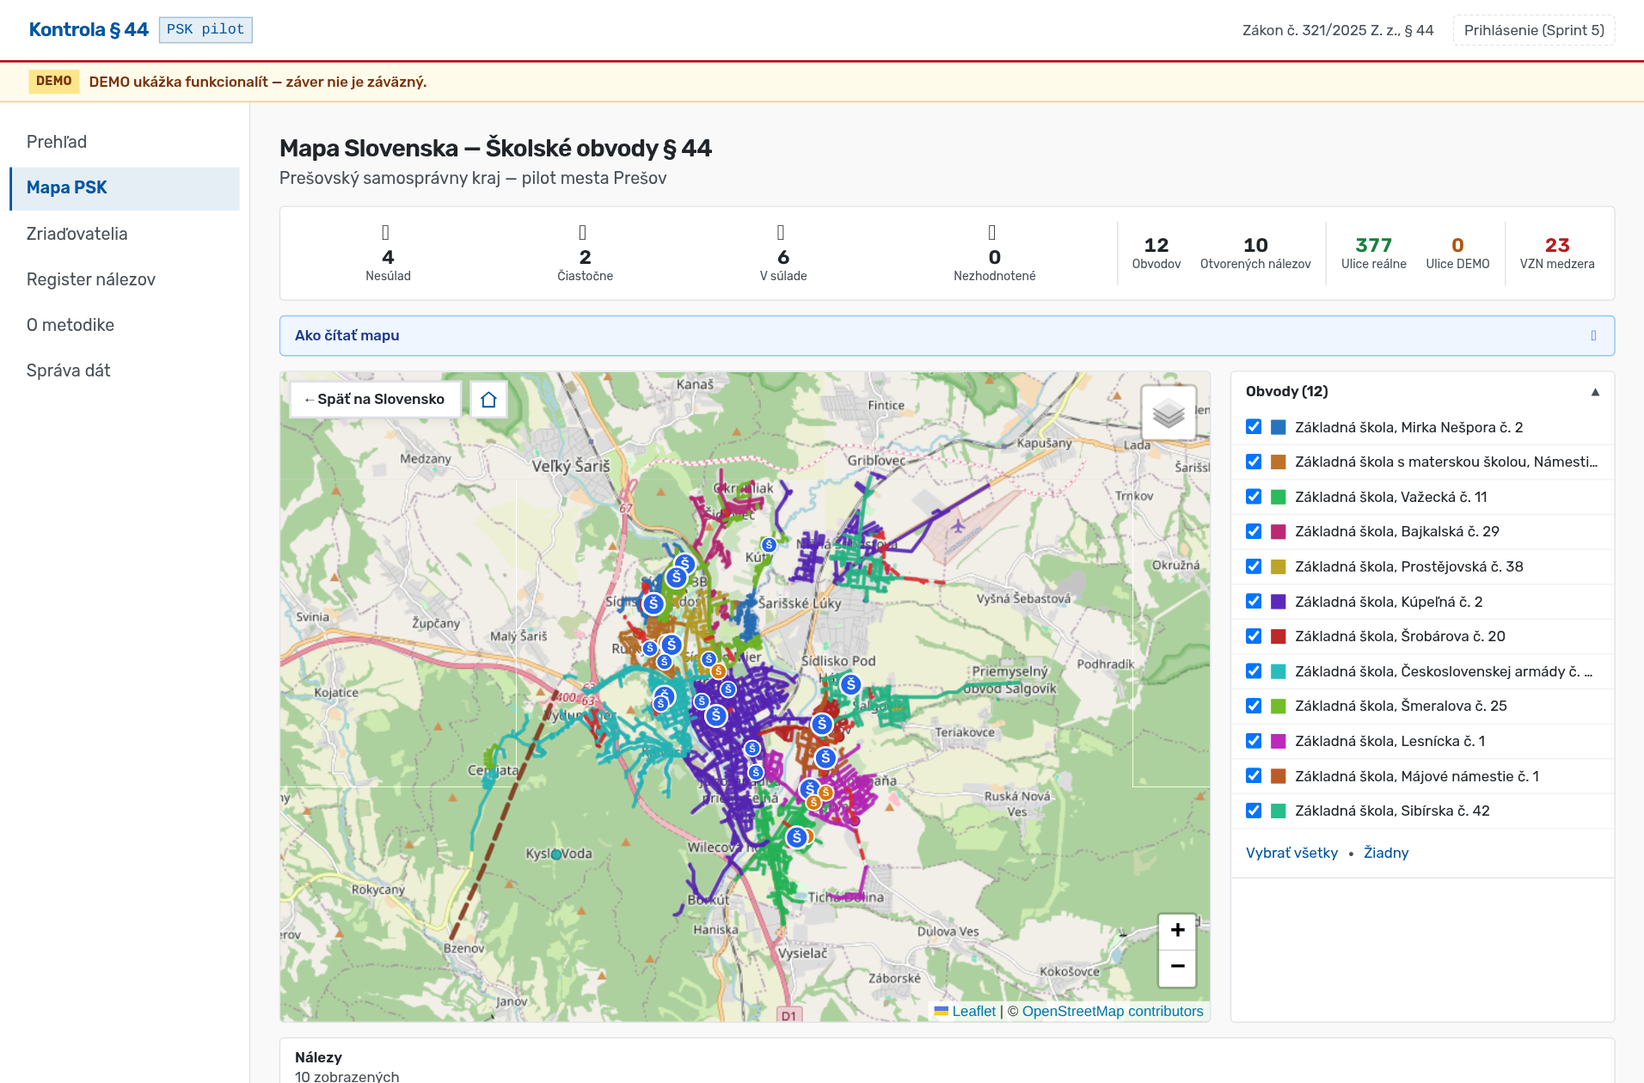
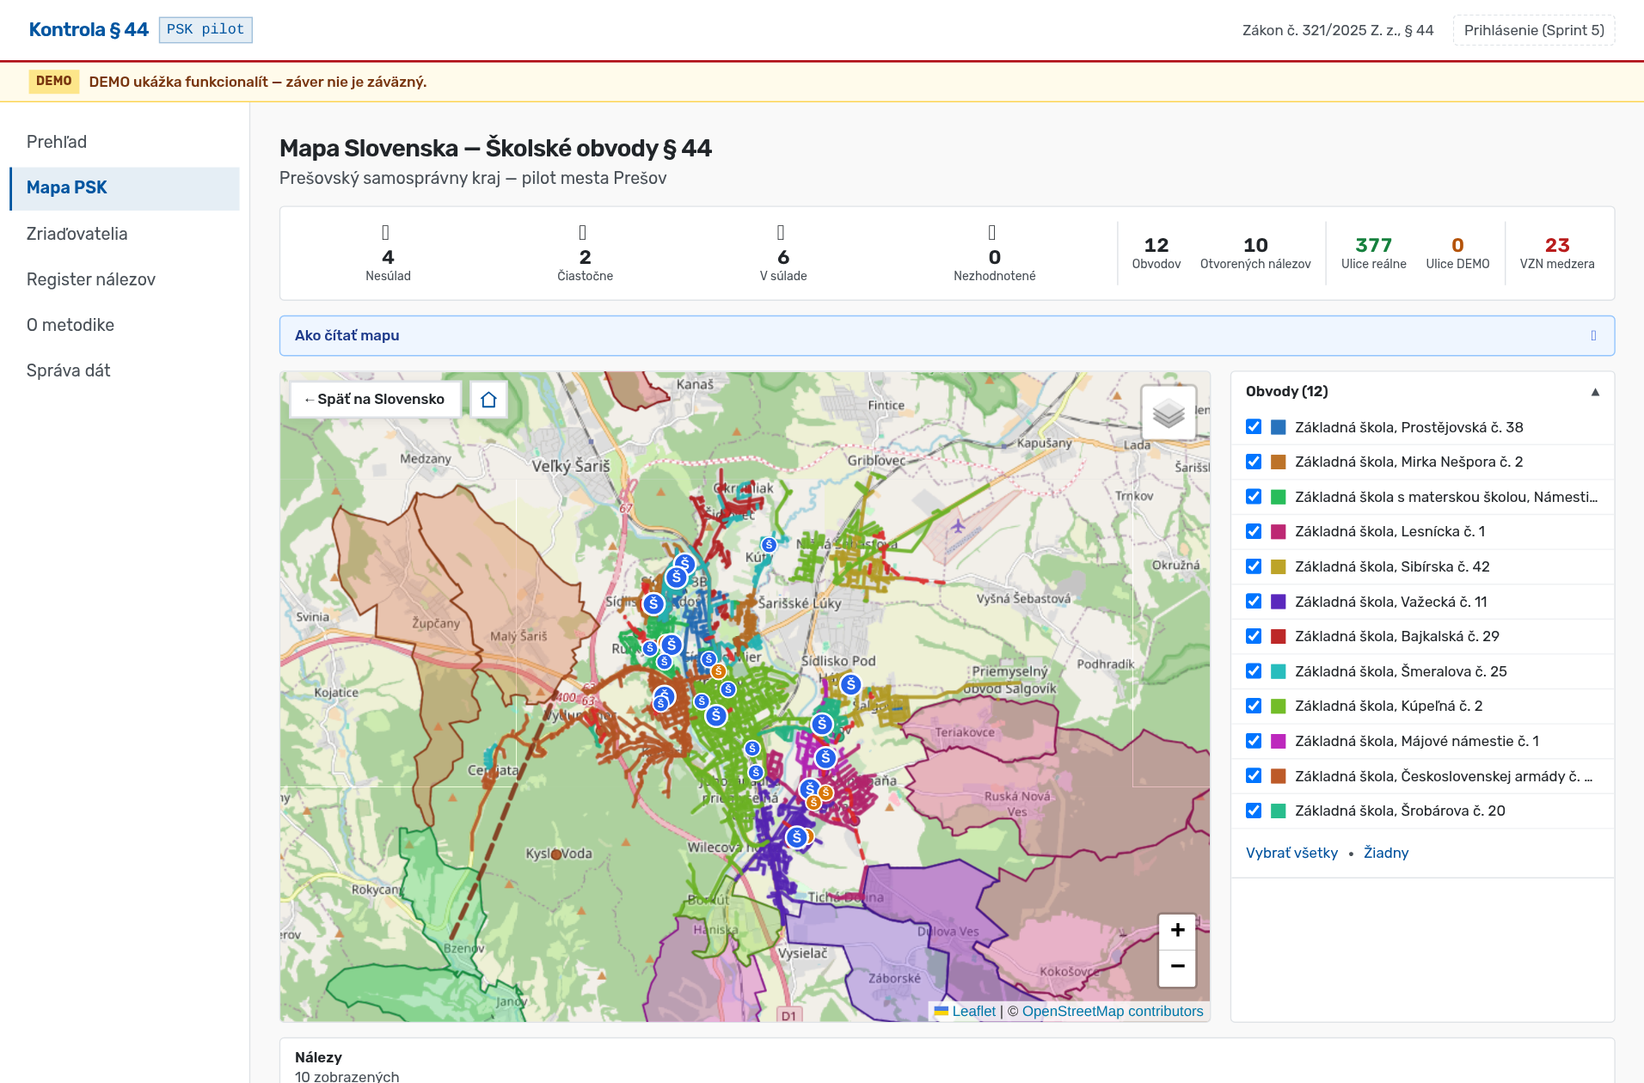
feat(map): Mapa obcí spoločného obvodu ako oblasti (VLA-21) (#6)
* feat(vzn-parser): carry grade range per shared municipality (VLA-21)

- _parse_shared_municipalities() now returns (names, grades) instead of
  just names; grades maps municipality name -> its VZN-stated grade range
  (e.g. "5. – 9. ročníka"). Reuses the existing paren-aware splitter
  (_split_respecting_parens) instead of duplicating parsing logic, since a
  municipality's grade paren can itself contain a nested street sub-list
  ("(žiaci 1. – 9. ročníka; ulica: Hlavná, ...)").
- SchoolDistrict gains shared_municipality_grades: dict[str, str].
- run_sprint1.py::load_districts() now writes shared_municipality_grades
  into districts.metadata (JSONB) alongside the existing
  shared_municipalities key — same live write path confirmed in the
  investigation log, no new column/table needed.
- Verified live against real VZN text: grade is NOT uniform per district
  (4 of 10 districts with shared municipalities mix "1.–9." and "5.–9."
  ranges across their own municipalities), so grade must be attached
  per-municipality, not at district level.
- Side effect: the new parser also drops a pre-existing trailing-period
  artifact on each list's last municipality name (e.g. "Uzovce ." ->
  "Uzovce") as a natural consequence of the paren-aware split; downstream
  code (scripts/compute_longest_routes.py::_clean_municipality_name)
  already defensively strips this, so re-ingestion is non-breaking either
  way.

Verified standalone (python3 -c against load_and_parse_vzn()) before
[…]

Changed region(s): [[0.1851, 0.4333, 0.7406, 0.9595], [0.864, 0.3714, 0.9566, 0.7738], [0.3703, 0.3405, 0.4012, 0.4024]]

diff --git a/components/region-map.client.tsx b/components/region-map.client.tsx
@@ -2,7 +2,7 @@
 
 import 'leaflet/dist/leaflet.css'
 import { useEffect, useRef, useState } from 'react'
-import type { DistrictMapFeature, SoSchoolMarker, SoMrkOverlay, SoMrkLocality, SoPskMunicipality, SoHousePoint, SoHouseDot, SoDistrictStreetLine, SoFindingsPanelItem, SoStreetCoverageGap, SoBarrier, SoDistrictLongestRoute } from '@/lib/supabase/types'
+import type { DistrictMapFeature, SoSchoolMarker, SoMrkOverlay, SoMrkLocality, SoPskMunicipality, SoHousePoint, SoHouseDot, SoDistrictStreetLine, SoFindingsPanelItem, SoStreetCoverageGap, SoBarrier, SoDistrictLongestRoute, SoSharedMunicipalityArea } from '@/lib/supabase/types'
 import { PSK_CENTER, PSK_DEFAULT_ZOOM, SK_CENTER, SK_DEFAULT_ZOOM, PSK_KRAJ_NAMES, getDistrictHue } from '@/lib/config/region'
 import { buildDistrictSchoolPopup, buildDistrictSummaryPopup, buildNonVznSchoolPopup, escapeHtml, type DistrictPopupSummary } from '@/lib/compliance/school-popup'
 import {
@@ -48,6 +48,10 @@ interface RegionMapClientProps {
   // VLA-17: 5 longest real walking routes per district (comparison/overview
   // only — no threshold, never feeds the § 44 semaphore).
   longestRoutes?: SoDistrictLongestRoute[]
+  // VLA-21: shared-municipality catchment areas (VZN grades 5-9, or for
+  // some municipalities all of 1-9, pooled into a district's catchment).
+  // Descriptive/geographic only — never feeds the § 44 semaphore.
+  sharedMunicipalityAreas?: SoSharedMunicipalityArea[]
   // Engine findings (§ 44 demo scenarios included) — drives the per-district
   // evidence legend shown on selection. Never used to derive colour/severity
   // client-side; severity/text come straight from the engine output row.
@@ -61,7 +65,7 @@ function isPskKraj(name: string): boolean {
   return PSK_KRAJ_NAMES.some((n) => lower.includes(n.toLowerCase()))
 }
 
-export function RegionMapClient({ features, schools, mrkLocalities = [], municipalities = [], streetLines = [], housePoints = [], coverageGaps = [], barriers = [], longestRoutes = [], findings = [], districtSummaries = {}, initialMode = 'sk' }: RegionMapClientProps) {
+export function RegionMapClient({ features, schools, mrkLocalities = [], municipalities = [], streetLines = [], housePoints = [], coverageGaps = [], barriers = [], longestRoutes = [], sharedMunicipalityAreas = [], findings = [], districtSummaries = {}, initialMode = 'sk' }: RegionMapClientProps) {
   const containerRef = useRef<HTMLDivElement>(null)
   // eslint-disable-next-line @typescript-eslint/no-explicit-any
   const mapRef = useRef<any>(null)
@@ -144,6 +148,12 @@ export function RegionMapClient({ features, schools, mrkLocalities = [], municip
       // summary popup) rather than the MRK hatch underneath it.
       const mrkPane = map.createPane('mrk')
       mrkPane.style.zIndex = '440'
+      // VLA-21: shared-municipality areas sit above MRK but below the
+      // district street lines/schools, so a district street tap always
+      // wins over the (geographically separate, neighbouring-municipality)
+      // catchment fill underneath it.
+      const sharedMuniPane = map.createPane('sharedMunicipalities')
+      sharedMuniPane.style.zIndex = '445'
       const districtPane = map.createPane('districts')
       districtPane.style.zIndex = '450'
       const overlapsPane = map.createPane('overlaps')
@@ -997,6 +1007,64 @@ export function RegionMapClient({ features, schools, mrkLocalities = [], municip
           })
           containerRef.current?.setAttribute('data-longest-routes', String(longestRoutes.length))
 
+          // (D5) VLA-21 — shared-municipality catchment areas (VZN grades
+          // 5-9, or for some municipalities all of 1-9, pooled into a
+          // district's catchment beyond its seat municipality, e.g. ZŠ
+          // Bajkalská + Gregorovce/Hubošovce/Uzovce). Rendered as the real
+          // municipality polygon (PSK WFS), filled in the OWNING district's
+          // colour so it visually reads as "part of this district's
+          // catchment" — same hue as that district's streets, drawn as a
+          // genuinely separate layer/source (own pane), NOT baked into the
+          // district street layer, since a municipality boundary and a
+          // district street catchment are administratively different
+          // objects. Descriptive/geographic only — never feeds the § 44
+          // semaphore. grade_range comes straight from the VZN-parsed data
+          // (districts.metadata->'shared_municipality_grades'), never
+          // invented client-side; a NULL is shown as "neuvedené", never
+          // silently omitted.
+          const sharedMuniGroup = L.featureGroup()
+          sharedMunicipalityAreas.forEach((area) => {
+            if (!area.geom_geojson) return
+            const distIdx = districtIndexMap.get(area.district_id) ?? 0
+            const hue = getDistrictHue(distIdx)
+            const fillColor = `hsl(${hue}, 65%, 55%)`
+            const strokeColor = `hsl(${hue}, 70%, 32%)`
+            // DB-sourced labels go through Leaflet's innerHTML-based popup/
+            // tooltip rendering — escape them (same XSS precedent as the
+            // longest-routes popup, PR #4 review).
+            const districtName = escapeHtml(area.district_name)
+            const muniName = escapeHtml(area.municipality_name)
+            const gradeEscaped = area.grade_range ? escapeHtml(area.grade_range) : null
+            const gradeHtml = gradeEscaped
+              ? `<p style="margin:4px 0">Ročníky: <strong>${gradeEscaped}</strong></p>`
+              : `<p style="margin:4px 0;color:#6b7280">Ročníky: neuvedené vo VZN</p>`
+            const popupHtml =
+              `<div style="font-size:12px;line-height:1.45;max-width:260px">` +
+              `<strong>${muniName}</strong><br/>` +
+              `<span style="display:inline-block;margin:3px 0;border-radius:4px;padding:1px 6px;font-size:10px;font-weight:700;background:#eff6ff;color:#1d4ed8;border:1px solid #bfdbfe">Spoločný školský obvod</span>` +
+              `<p style="margin:4px 0">Škola: <strong>${districtName}</strong></p>` +
+              gradeHtml +
+              `</div>`
+            const layer = L.geoJSON(area.geom_geojson as unknown as GeoJSON.GeoJsonObject, {
+              style: {
+                color: strokeColor,
+                weight: 1.5,
+                fillColor,
+                fillOpacity: 0.35,
+                className: 'so-shared-municipality-area',
+              },
+              // eslint-disable-next-line @typescript-eslint/no-explicit-any
+              pane: 'sharedMunicipalities' as any,
+            })
+            layer.bindTooltip(
+              `${muniName} — ${districtName}${gradeEscaped ? ` (${gradeEscaped})` : ''}`,
+              { sticky: true }
+            )
+            layer.bindPopup(popupHtml, { maxWidth: 280, autoPan: true, autoPanPadding: [20, 20] })
+            layer.addTo(sharedMuniGroup)
+          })
+          containerRef.current?.setAttribute('data-shared-municipality-areas', String(sharedMunicipalityAreas.length))
+
           // (E) Layer control. Default ON: street networks + school pins +
           // coverage gaps (holes must always be explained). Every analytical
           // overlay (MRK, address dots) stays OFF by default.
@@ -1019,6 +1087,9 @@ export function RegionMapClient({ features, schools, mrkLocalities = [], municip
           if (longestRoutes.length > 0) {
             overlays[`5 najdlhších trás (${longestRoutes.length}, Google Maps)`] = longestRoutesGroup
           }
+          if (sharedMunicipalityAreas.length > 0) {
+            overlays[`Obce spoločného obvodu (${sharedMunicipalityAreas.length})`] = sharedMuniGroup
+          }
           // eslint-disable-next-line @typescript-eslint/no-explicit-any
           const layersControl = L.control.layers(undefined, overlays as any, {
             collapsed: layerControlCollapsed(),
@@ -1036,6 +1107,7 @@ export function RegionMapClient({ features, schools, mrkLocalities = [], municip
           schoolsGroup.addTo(map)
           coverageGapsGroup.addTo(map)
           barriersGroup.addTo(map)
+          sharedMuniGroup.addTo(map)
 
           const fitToDistricts = () => {
             try {
@@ -1060,15 +1132,17 @@ export function RegionMapClient({ features, schools, mrkLocalities = [], municip
             if (!map.hasLayer(schoolsGroup)) schoolsGroup.addTo(map)
             if (!map.hasLayer(coverageGapsGroup)) coverageGapsGroup.addTo(map)
             if (!map.hasLayer(barriersGroup)) barriersGroup.addTo(map)
+            if (!map.hasLayer(sharedMuniGroup)) sharedMuniGroup.addTo(map)
             fitToDistricts()
           }
 
-          layersRef.current.psk = [districtsGroup, schoolsGroup, coverageGapsGroup, mrkGroup, housePointsGroup, barriersGroup, longestRoutesGroup]
+          layersRef.current.psk = [districtsGroup, schoolsGroup, coverageGapsGroup, mrkGroup, housePointsGroup, barriersGroup, longestRoutesGroup, sharedMuniGroup]
         } else {
-          const [districtsGroup, schoolsGroup, coverageGapsGroup, , , barriersGroup] = layersRef.current.psk
+          const [districtsGroup, schoolsGroup, coverageGapsGroup, , , barriersGroup, , sharedMuniGroup] = layersRef.current.psk
           districtsGroup.addTo(map)
           schoolsGroup.addTo(map)
           if (coverageGapsGroup) coverageGapsGroup.addTo(map)
+          if (sharedMuniGroup) sharedMuniGroup.addTo(map)
           if (barriersGroup) barriersGroup.addTo(map)
           if (features.length > 0) {
             try {

diff --git a/app/map/page.tsx b/app/map/page.tsx
@@ -8,7 +8,7 @@ import { createPublicClient } from '@/lib/supabase/server'
 import { fetchAllRows } from '@/lib/supabase/fetch-all'
 import { Skeleton } from '@/components/ui/skeleton'
 import { Alert, AlertDescription } from '@/components/ui/alert'
-import type { DistrictMapFeature, SoSchoolMarker, SoMrkOverlay, SoMrkLocality, SoFindingsPanelItem, SoPskMunicipality, SoHousePoint, SoHouseDot, DistrictScorecardRow, SoDistrictStreetLine, SoStreetCoverageGap, SoBarrier, SoDistrictLongestRoute, SoEngineMetadata } from '@/lib/supabase/types'
+import type { DistrictMapFeature, SoSchoolMarker, SoMrkOverlay, SoMrkLocality, SoFindingsPanelItem, SoPskMunicipality, SoHousePoint, SoHouseDot, DistrictScorecardRow, SoDistrictStreetLine, SoStreetCoverageGap, SoBarrier, SoDistrictLongestRoute, SoEngineMetadata, SoSharedMunicipalityArea } from '@/lib/supabase/types'
 import Link from 'next/link'
 import { getColorSymbol, getColorLabel, getRowTint, getRowText } from '@/lib/compliance/colors'
 import { buildDistrictSummaries } from '@/lib/compliance/school-popup'
@@ -157,6 +157,22 @@ async function fetchEngineMetadata(): Promise<SoEngineMetadata | null> {
   }
 }
 
+// VLA-21: municipalities pooled into a district's shared catchment
+// (VZN grades 5-9 / 1-9), rendered as real polygon areas coloured by the
+// owning district — descriptive/geographic only, never a § 44 verdict.
+async function fetchSharedMunicipalityAreas(): Promise<SoSharedMunicipalityArea[]> {
+  try {
+    const sb = createPublicClient()
+    const { data, error } = await sb
+      .from('so_shared_municipality_areas')
+      .select('*')
+    if (error) throw error
+    return (data ?? []) as SoSharedMunicipalityArea[]
+  } catch {
+    return []
+  }
+}
+
 async function fetchMunicipalities(): Promise<SoPskMunicipality[]> {
   try {
     const sb = createPublicClient()
@@ -211,7 +227,7 @@ async function fetchHousePoints(): Promise<SoHousePoint[]> {
 }
 
 export default async function MapPage() {
-  const [features, schools, mrkOverlays, mrkLocalities, findings, municipalities, streetLines, housePoints, houseDots, scorecardRows, coverageGaps, barriers, longestRoutes, engineMetadata] = await Promise.all([
+  const [features, schools, mrkOverlays, mrkLocalities, findings, municipalities, streetLines, housePoints, houseDots, scorecardRows, coverageGaps, barriers, longestRoutes, engineMetadata, sharedMunicipalityAreas] = await Promise.all([
     fetchFeatures(),
     fetchSchools(),
     fetchMrkOverlays(),
@@ -226,6 +242,7 @@ export default async function MapPage() {
     fetchBarriers(),
     fetchLongestRoutes(),
     fetchEngineMetadata(),
+    fetchSharedMunicipalityAreas(),
   ])
   const isEmpty = features.length === 0
 
@@ -315,6 +332,7 @@ export default async function MapPage() {
                 coverageGaps={coverageGaps}
                 barriers={barriers}
                 longestRoutes={longestRoutes}
+                sharedMunicipalityAreas={sharedMunicipalityAreas}
                 findings={findings}
                 districtSummaries={districtSummaries}
                 initialMode="psk"
@@ -345,6 +363,8 @@ export default async function MapPage() {
       <div className="hidden md:block">
         <p className="text-xs text-muted-foreground mt-2">
           Legenda: <span className="inline-flex items-center gap-1"><span className="inline-block w-6 h-1 rounded-sm" style={{ background: 'hsl(210,70%,45%)' }}></span> Ulice obvodu (farba podľa školy)</span>
+          <span className="mx-2">·</span>
+          <span className="inline-flex items-center gap-1"><span className="inline-block w-3 h-3 rounded-sm border" style={{ background: 'hsla(210,65%,55%,.5)', borderColor: 'hsl(210,70%,32%)' }}></span> Obce spoločného obvodu (farba podľa obvodu, kliknutím škola + ročníky)</span>
           <span className="mx-2">·</span>
           <span className="inline-flex items-center gap-1"><span className="inline-block w-6 h-0 border-t-2 border-dashed" style={{ borderColor: '#dc2626' }}></span> VZN medzera — ulica bez obvodu (nález § 44)</span>
           <span className="mx-2">·</span>

diff --git a/components/region-map.tsx b/components/region-map.tsx
@@ -1,6 +1,6 @@
 // SSR-safe wrapper: dynamically imports the Leaflet client component
 import dynamic from 'next/dynamic'
-import type { DistrictMapFeature, SoSchoolMarker, SoMrkOverlay, SoMrkLocality, SoPskMunicipality, SoHousePoint, SoHouseDot, SoDistrictStreetLine, SoFindingsPanelItem, SoStreetCoverageGap, SoBarrier, SoDistrictLongestRoute } from '@/lib/supabase/types'
+import type { DistrictMapFeature, SoSchoolMarker, SoMrkOverlay, SoMrkLocality, SoPskMunicipality, SoHousePoint, SoHouseDot, SoDistrictStreetLine, SoFindingsPanelItem, SoStreetCoverageGap, SoBarrier, SoDistrictLongestRoute, SoSharedMunicipalityArea } from '@/lib/supabase/types'
 import type { DistrictPopupSummary } from '@/lib/compliance/school-popup'
 import { Skeleton } from '@/components/ui/skeleton'
 
@@ -19,6 +19,8 @@ interface RegionMapProps {
   barriers?: SoBarrier[]
   // VLA-17: 5 longest real walking routes per district (comparison only)
   longestRoutes?: SoDistrictLongestRoute[]
+  // VLA-21: shared-municipality catchment areas (VZN grades 5-9 / 1-9)
+  sharedMunicipalityAreas?: SoSharedMunicipalityArea[]
   findings?: SoFindingsPanelItem[]
   districtSummaries?: Record<string, DistrictPopupSummary>
   initialMode?: 'sk' | 'psk'
@@ -32,6 +34,6 @@ const RegionMapDynamic = dynamic(
   }
 )
 
-export function RegionMap({ features, schools, mrkOverlays, mrkLocalities = [], municipalities = [], streetLines = [], housePoints = [], houseDots = [], coverageGaps = [], barriers = [], longestRoutes = [], findings = [], districtSummaries = {}, initialMode = 'sk' }: RegionMapProps) {
-  return <RegionMapDynamic features={features} schools={schools} mrkOverlays={mrkOverlays} mrkLocalities={mrkLocalities} municipalities={municipalities} streetLines={streetLines} housePoints={housePoints} houseDots={houseDots} coverageGaps={coverageGaps} barriers={barriers} longestRoutes={longestRoutes} findings={findings} districtSummaries={districtSummaries} initialMode={initialMode} />
+export function RegionMap({ features, schools, mrkOverlays, mrkLocalities = [], municipalities = [], streetLines = [], housePoints = [], houseDots = [], coverageGaps = [], barriers = [], longestRoutes = [], sharedMunicipalityAreas = [], findings = [], districtSummaries = {}, initialMode = 'sk' }: RegionMapProps) {
+  return <RegionMapDynamic features={features} schools={schools} mrkOverlays={mrkOverlays} mrkLocalities={mrkLocalities} municipalities={municipalities} streetLines={streetLines} housePoints={housePoints} houseDots={houseDots} coverageGaps={coverageGaps} barriers={barriers} longestRoutes={longestRoutes} sharedMunicipalityAreas={sharedMunicipalityAreas} findings={findings} districtSummaries={districtSummaries} initialMode={initialMode} />
 }

diff --git a/lib/supabase/types.ts b/lib/supabase/types.ts
@@ -378,6 +378,21 @@ export interface SoDistrictLongestRoute {
   computed_at: string
 }
 
+// VLA-21: municipalities pooled into a district's shared catchment (VZN
+// grades 5-9, or for some municipalities all of 1-9) rendered as real
+// polygon areas (public.so_shared_municipality_areas). Descriptive/
+// geographic only — never feeds the § 44 semaphore, same boundary VLA-16/
+// 17/18 respected. grade_range is NULL only if the VZN text had no explicit
+// "žiaci ..." clause for that municipality — never invented client-side.
+export interface SoSharedMunicipalityArea {
+  district_id: string
+  district_name: string
+  municipality_id: string
+  municipality_name: string
+  grade_range: string | null
+  geom_geojson: Record<string, unknown> | null
+}
+
 // Backward-compat aliases (deprecated — use So* names)
 export type DistrictComposition = SoDistrictComposition
 export type DistrictMapFeature = SoDistrictMapFeature

diff --git a/ingest/vzn_parser.py b/ingest/vzn_parser.py
@@ -45,6 +45,9 @@ class SchoolDistrict:
     street_qualifiers: dict[str, str] = field(default_factory=dict)
     # Shared district municipalities
     shared_municipalities: list[str] = field(default_factory=list)
+    # Grade range per shared municipality (e.g. "5. – 9. ročníka"), only for
+    # municipalities where the VZN states one explicitly — see VLA-21.
+    shared_municipality_grades: dict[str, str] = field(default_factory=dict)
     vzn_article: str = "Článok 3"
     vzn_source_text: str = ""
 
@@ -161,7 +164,7 @@ def parse_vzn_text(text: str = VZN_FULL_TEXT) -> list[SchoolDistrict]:
         streets, qualifiers = _parse_street_list(streets_text)
 
         # Parse shared municipalities
-        shared = _parse_shared_municipalities(obec_text)
+        shared, shared_grades = _parse_shared_municipalities(obec_text)
 
         district = SchoolDistrict(
             district_number=num,
@@ -170,6 +173,7 @@ def parse_vzn_text(text: str = VZN_FULL_TEXT) -> list[SchoolDistrict]:
             streets=streets,
             street_qualifiers=qualifiers,
             shared_municipalities=shared,
+            shared_municipality_grades=shared_grades,
             vzn_source_text=match.group(0).strip(),
         )
         districts.append(district)
@@ -231,20 +235,44 @@ def _split_respecting_parens(text: str) -> list[str]:
     return parts
 
 
-def _parse_shared_municipalities(text: str) -> list[str]:
-    """Parse 'Obec:' section to extract municipality names."""
+def _parse_shared_municipalities(text: str) -> tuple[list[str], dict[str, str]]:
+    """Parse 'Obec:' section to extract municipality names and, where the VZN
+    states one explicitly, each municipality's grade range (e.g. VLA-21:
+    "Gregorovce (žiaci 5. – 9. ročníka)" -> name "Gregorovce", grade
+    "5. – 9. ročníka"). A municipality's parenthetical may also carry a
+    street sub-list ("(žiaci 1. – 9. ročníka; ulica: Hlavná, ...)") — that is
+    one single paren group in the source text, so a naive comma-split would
+    shatter it; reuse the same paren-aware splitter street parsing already
+    uses (_split_respecting_parens) instead of duplicating that logic.
+
+    Returns (names, grades) — grades maps name -> grade range string, only
+    for municipalities where the VZN states a grade explicitly.
+    """
     if not text or text.strip() in ("", "–"):
-        return []
+        return [], {}
 
-    # Remove grade qualifiers like "(žiaci 5. – 9. ročníka)"
-    text = re.sub(r"\s*\(žiaci[^)]*\)\s*", " ", text)
-    # Remove street sub-lists like "(ulica: ...)"
-    text = re.sub(r"\s*\(ulica:[^)]*\)\s*", " ", text)
-    text = re.sub(r"\s*;.*$", "", text, flags=re.MULTILINE)
+    # Strip the sentence-final period ending the whole "Obec: ..." clause
+    # (distinct from any period inside a grade range like "5.").
+    parts = _split_respecting_parens(text.strip().rstrip("."))
 
-    # Split by comma or semicolon
-    parts = re.split(r"[,;]", text)
-    return [p.strip() for p in parts if p.strip()]
+    names: list[str] = []
+    grades: dict[str, str] = {}
+    for part in parts:
+        part = part.strip()
+        if not part:
+            continue
+        m = re.match(r"^(.+?)\s*\(([^)]*)\)\s*$", part)
+        if not m:
+            names.append(part)
+            continue
+        name = m.group(1).strip()
+        paren_content = m.group(2).strip()
+        names.append(name)
+        grade_match = re.match(r"^žiaci\s+([^;]+?)\s*(?:;.*)?$", paren_content)
+        if grade_match:
+            grades[name] = grade_match.group(1).strip()
+
+    return names, grades
 
 
 def geocode_street_nominatim(

diff --git a/ingest/run_sprint1.py b/ingest/run_sprint1.py
@@ -92,6 +92,7 @@ def load_districts(
             "streets": d.streets,
             "street_qualifiers": d.street_qualifiers,
             "shared_municipalities": d.shared_municipalities,
+            "shared_municipality_grades": d.shared_municipality_grades,
             "streets_count": len(d.streets),
             "municipality_nuts": MUNICIPALITY_NUTS,
         }
